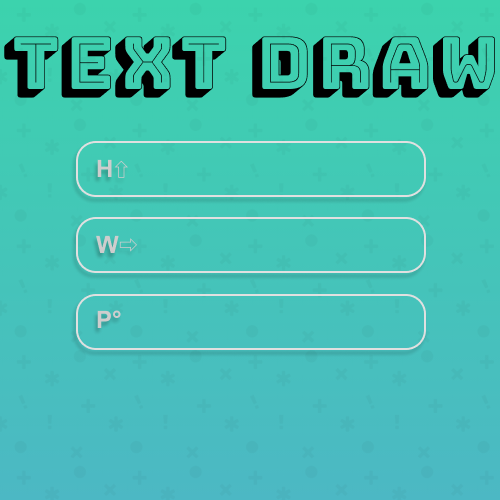
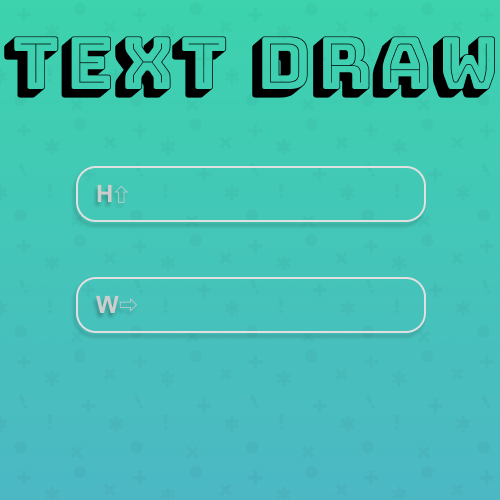
few fixex

Changed region(s): [[0.15, 0.27, 0.87, 0.72], [0.84, 0.45, 0.87, 0.54]]

diff --git a/main.py b/main.py
@@ -1,8 +1,7 @@
+import sys
 from tkinter import *
 import pygame
-import sys
-
-from pygame.draw import rect
+from PIL import Image, ImageTk
 
 
 def second_window(Hs, Ws):
@@ -24,15 +23,16 @@ def second_window(Hs, Ws):
 
     Hp = H // HEIGHT_rect
     Wp = W // WIDTH_rect
+    print(Hp, Wp)
 
     # Create a 2 dimensional array. A two dimensional
     # array is simply a list of lists.
     grid = []
-    for row in range(Hp):
+    for row in range(Wp):
         # Add an empty array that will hold each cell
         # in this row
         grid.append([])
-        for column in range(Wp):
+        for column in range(Hp):
             grid[row].append(0)  # Append a cell
 
     # Initialize pygame
@@ -83,8 +83,8 @@ def second_window(Hs, Ws):
         screen.fill(BLACK)
 
         # Draw the grid
-        for row in range(Hp):
-            for column in range(Wp):
+        for row in range(Wp):
+            for column in range(Hp):
                 color = WHITE
                 if grid[row][column] == 1:
                     color = GREEN
@@ -104,6 +104,7 @@ def second_window(Hs, Ws):
     # Be IDLE friendly. If you forget this line, the program will 'hang'
     # on exit.
     pygame.quit()
+    sys.exit()
 
 
 def first_window():
@@ -119,8 +120,6 @@ def first_window():
     HEIGHT.set('250')
     WIDTH = StringVar()
     WIDTH.set('250')
-    PPI = StringVar()
-    PPI.set('50')
     """ Entry Checks """
     def clear_heignt(event):
         if HEIGHT.get() == '250':
@@ -129,10 +128,6 @@ def first_window():
     def clear_width(event):
         if WIDTH.get() == '250':
             WIDTH.set('')
-
-    def clear_ppi(event):
-        if PPI.get() == '50':
-            PPI.set('')
 
     def check_height_val(event):
         def check():
@@ -166,27 +161,20 @@ def first_window():
 
         WIN.after(50, check)
 
-    def check_ppi_val(event):
-        def check():
-            try:
-                if int(PPI.get()) > 100:
-                    Warning.place(x=180, y=365)
-                    Warning.config(text='Pixels too much')
-                    WIN.after(500, PPI.set(''))
-                else:
-                    Warning.config(text='')
-            except:
-                Warning.config(text='Please Enter Numaric Values only')
-                Warning.place(x=109, y=365)
-                WIN.after(50, PPI.set(''))
-
-        WIN.after(50, check)
-
     Warning = Label(WIN, font=('Arial', 15), bg='#48BEBF')
     Warning.place(x=145, y=365)
 
     def gen_windows():
-        second_window(HEIGHT.get(), WIDTH.get())
+        if int(HEIGHT.get()) < 100:
+            Warning.config(text='Window height too small')
+            Warning.place(x=145, y=365)
+        elif int(WIDTH.get()) < 100:
+            Warning.config(text='Window width too small')
+            Warning.place(x=145, y=365)
+        else:
+            Warning.config(text='')
+            WIN.withdraw()
+            second_window(HEIGHT.get(), WIDTH.get())
 
     """ Entries """
     H = Entry(WIN,
@@ -196,7 +184,7 @@ def first_window():
               bg='#42C9B5',
               fg='white',
               bd=0)
-    H.place(x=166, y=150)
+    H.place(x=166, y=178)
     H.bind('<Button-1>', clear_heignt)
     H.bind('<Key>', check_height_val)
 
@@ -207,20 +195,9 @@ def first_window():
               bg='#44C5BB',
               fg='white',
               bd=0)
-    W.place(x=166, y=229)
+    W.place(x=166, y=289)
     W.bind('<Button-1>', clear_width)
     W.bind('<Key>', check_width_val)
-
-    P = Entry(WIN,
-              text=PPI,
-              font=('Arial', 25),
-              width=4,
-              bg='#46C1BC',
-              fg='white',
-              bd=0)
-    P.place(x=166, y=306)
-    P.bind('<Button-1>', clear_ppi)
-    P.bind('<Key>', check_ppi_val)
 
     Button_image = PhotoImage(file='Images\Button Grn.png')
     Button(
